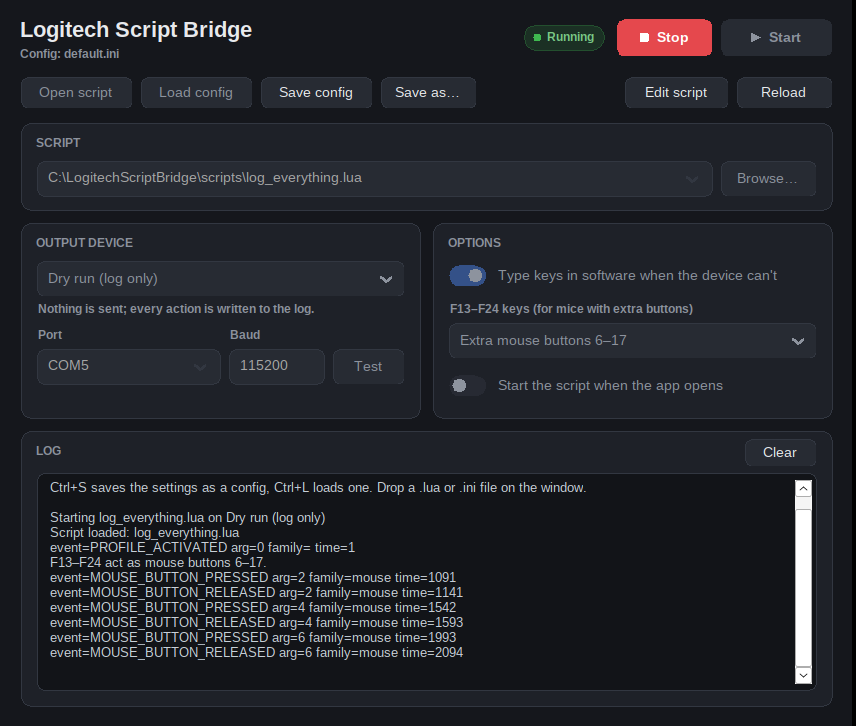
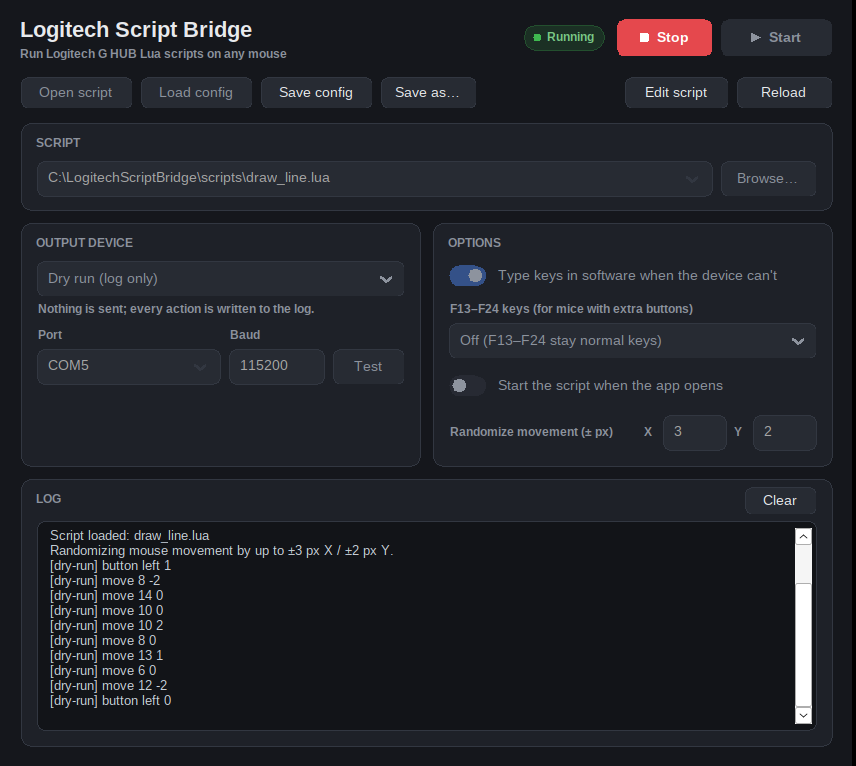
Add Randomize movement (± X / Y px) option (v1.2.0)
Offsets every script mouse movement by a random amount within the set
range, for a hand-drawn look in Paint and similar apps. The offset is
re-picked on each move and corrected against the previous one, so the
pointer stays within the range of the exact path instead of drifting.
Saved in configs as jitter_x / jitter_y; adds a Paint example script.

Claude-Session: https://claude.ai/code/session_01KuAGHycRfgR26YMsoW1HEq

diff --git a/src/gui_win.cpp b/src/gui_win.cpp
@@ -130,7 +130,7 @@ int textWidth(HDC dc, const std::wstring& s, HFONT font) {
 enum Id {
     IDC_START = 100, IDC_STOP, IDC_OPEN, IDC_LOADCFG, IDC_SAVECFG, IDC_SAVEAS, IDC_RELOAD, IDC_EDIT,
     IDC_SCRIPT, IDC_SCRIPT_MENU, IDC_BROWSE, IDC_DEVICE, IDC_PORT, IDC_PORT_MENU, IDC_BAUD, IDC_TEST,
-    IDC_KEYFALLBACK, IDC_EXTRA, IDC_AUTOSTART, IDC_CLEAR, IDC_LOG,
+    IDC_KEYFALLBACK, IDC_EXTRA, IDC_AUTOSTART, IDC_JITTER_X, IDC_JITTER_Y, IDC_CLEAR, IDC_LOG,
 };
 
 enum class Role { Primary, Danger, Secondary, Dropdown, Chevron, Toggle };
@@ -223,6 +223,8 @@ Config currentConfig() {
     c.keyFallback = app.keyFallback;
     c.extraKeys = kExtraKeys[app.extraKeys];
     c.autoStart = app.autoStart;
+    c.jitterX = std::max(0, _wtoi(getText(IDC_JITTER_X).c_str()));
+    c.jitterY = std::max(0, _wtoi(getText(IDC_JITTER_Y).c_str()));
     return c;
 }
 
@@ -236,6 +238,8 @@ void applyConfig(const Config& c) {
     SetWindowTextW(app.item(IDC_BAUD), std::to_wstring(c.baud).c_str());
     app.keyFallback = c.keyFallback;
     app.autoStart = c.autoStart;
+    SetWindowTextW(app.item(IDC_JITTER_X), std::to_wstring(c.jitterX).c_str());
+    SetWindowTextW(app.item(IDC_JITTER_Y), std::to_wstring(c.jitterY).c_str());
     app.extraKeys = 0;
     for (int i = 0; i < 3; i++)
         if (c.extraKeys == kExtraKeys[i]) app.extraKeys = i;
@@ -263,7 +267,7 @@ void refreshChrome() {
     EnableWindow(app.item(IDC_STOP), run);
     EnableWindow(app.item(IDC_RELOAD), run);
     for (int id : {IDC_SCRIPT, IDC_SCRIPT_MENU, IDC_BROWSE, IDC_OPEN, IDC_LOADCFG, IDC_DEVICE, IDC_EXTRA,
-                   IDC_KEYFALLBACK, IDC_AUTOSTART})
+                   IDC_KEYFALLBACK, IDC_AUTOSTART, IDC_JITTER_X, IDC_JITTER_Y})
         EnableWindow(app.item(id), !run);
     for (int id : {IDC_PORT, IDC_PORT_MENU, IDC_BAUD}) EnableWindow(app.item(id), !run && serial);
     EnableWindow(app.item(IDC_TEST), !run);
@@ -438,6 +442,7 @@ void startScript() {
     app.engine = std::make_unique<Engine>(*app.backend, app.input, [](const std::string& s) { app.log(s); },
                                           app.fallback.get());
     app.engine->onClearLog = [] { PostMessageW(app.wnd, WM_APP_CLEARLOG, 0, 0); };
+    app.engine->setJitter(c.jitterX, c.jitterY);
 
     app.log(std::string("\nStarting ") + fileName(c.script) + " on " + info.label + "\n");
     if (!app.engine->start(source, fileName(c.script), err)) {
@@ -454,6 +459,9 @@ void startScript() {
         errorBox(L"Input", err);
         return;
     }
+    if (c.jitterX || c.jitterY)
+        app.log("Randomizing mouse movement by up to \u00B1" + std::to_string(c.jitterX) + " px X / \u00B1" +
+                std::to_string(c.jitterY) + " px Y.\n");
     if (c.extraKeys == "mouse") app.log("F13–F24 act as mouse buttons 6–17.\n");
     if (c.extraKeys == "gkeys") app.log("F13–F24 act as G-keys G1–G12.\n");
     app.status = App::Status::Running;
@@ -814,7 +822,7 @@ void layout() {
 
     // device + options cards
     y += app.S(88) + app.S(12);
-    const int cardH = app.S(196), half = (W - 2 * m - app.S(12)) / 2;
+    const int cardH = app.S(244), half = (W - 2 * m - app.S(12)) / 2;
     const int lx = m, rx = m + half + app.S(12);
     app.cards.push_back({{lx, y, lx + half, y + cardH}, L"OUTPUT DEVICE"});
     app.cards.push_back({{rx, y, rx + half, y + cardH}, L"OPTIONS"});
@@ -838,6 +846,14 @@ void layout() {
                           L"F13–F24 keys (for mice with extra buttons)"});
     place(IDC_EXTRA, rx + pad, y + app.S(100), inner, fh);
     place(IDC_AUTOSTART, rx + pad, y + app.S(148), inner, app.S(30));
+    // randomize movement: label, then X and Y fields
+    const int jy = y + app.S(192), jw = app.S(64), jl = app.S(18);
+    const int jx = rx + half - pad - 2 * jw - 2 * jl - gap;
+    app.labels.push_back({{rx + pad + app.S(2), jy, jx - gap, jy + fh}, L"Randomize movement (\u00B1 px)"});
+    app.labels.push_back({{jx, jy, jx + jl, jy + fh}, L"X"});
+    field(IDC_JITTER_X, jx + jl, jy, jw);
+    app.labels.push_back({{jx + jl + jw + gap, jy, jx + 2 * jl + jw + gap, jy + fh}, L"Y"});
+    field(IDC_JITTER_Y, jx + 2 * jl + jw + gap, jy, jw);
 
     // log card
     y += cardH + app.S(12);
@@ -952,12 +968,14 @@ void createControls() {
     button(IDC_KEYFALLBACK, L"Type keys in software when the device can't", Role::Toggle);
     button(IDC_EXTRA, L"", Role::Dropdown);
     button(IDC_AUTOSTART, L"Start the script when the app opens", Role::Toggle);
+    make(L"EDIT", L"0", ES_NUMBER | ES_AUTOHSCROLL, IDC_JITTER_X);
+    make(L"EDIT", L"0", ES_NUMBER | ES_AUTOHSCROLL, IDC_JITTER_Y);
     button(IDC_CLEAR, L"Clear", Role::Secondary);
     HWND log = make(L"EDIT", L"", WS_VSCROLL | ES_MULTILINE | ES_READONLY | ES_AUTOVSCROLL, IDC_LOG, app.fontMono);
     SendMessageW(log, EM_SETLIMITTEXT, 0, 0);
 
     const int m = app.S(4);
-    for (int id : {IDC_SCRIPT, IDC_PORT, IDC_BAUD}) SendMessageW(app.item(id), EM_SETMARGINS, EC_LEFTMARGIN | EC_RIGHTMARGIN, MAKELPARAM(0, 0));
+    for (int id : {IDC_SCRIPT, IDC_PORT, IDC_BAUD, IDC_JITTER_X, IDC_JITTER_Y}) SendMessageW(app.item(id), EM_SETMARGINS, EC_LEFTMARGIN | EC_RIGHTMARGIN, MAKELPARAM(0, 0));
     SendMessageW(log, EM_SETMARGINS, EC_LEFTMARGIN | EC_RIGHTMARGIN, MAKELPARAM(m, m));
     SendMessageW(app.item(IDC_SCRIPT), EM_SETCUEBANNER, TRUE, reinterpret_cast<LPARAM>(L"Pick a .lua script"));
     SendMessageW(app.item(IDC_PORT), EM_SETCUEBANNER, TRUE, reinterpret_cast<LPARAM>(L"e.g. COM5"));
@@ -1014,6 +1032,8 @@ void onCommand(int id, int code) {
         case IDC_SCRIPT:
         case IDC_PORT:
         case IDC_BAUD:
+        case IDC_JITTER_X:
+        case IDC_JITTER_Y:
             if (code == EN_CHANGE) refreshChrome();
             if (code == EN_SETFOCUS || code == EN_KILLFOCUS) InvalidateRect(app.wnd, &app.fields[id], FALSE);
             break;
@@ -1036,7 +1056,7 @@ LRESULT CALLBACK wndProc(HWND hwnd, UINT msg, WPARAM wp, LPARAM lp) {
             return 0;
         case WM_GETMINMAXINFO: {
             auto* mm = reinterpret_cast<MINMAXINFO*>(lp);
-            mm->ptMinTrackSize = {app.S(780), app.S(640)};
+            mm->ptMinTrackSize = {app.S(780), app.S(690)};
             return 0;
         }
         case WM_DRAWITEM:
@@ -1139,7 +1159,7 @@ int WINAPI wWinMain(HINSTANCE inst, HINSTANCE, LPWSTR, int show) {
 
     app.wnd = CreateWindowExW(WS_EX_CONTROLPARENT, wc.lpszClassName, L"Logitech Script Bridge",
                               WS_OVERLAPPEDWINDOW | WS_CLIPCHILDREN, CW_USEDEFAULT, CW_USEDEFAULT, app.S(860),
-                              app.S(760), nullptr, nullptr, inst, nullptr);
+                              app.S(800), nullptr, nullptr, inst, nullptr);
     createControls();
     enableDarkChrome();
     loadState(arg);

diff --git a/src/engine.cpp b/src/engine.cpp
@@ -110,6 +110,7 @@ bool Engine::start(const std::string& source, const std::string& chunkName, std:
     hasDeadline_ = false;
     primaryEvents_ = false;
     warnedKeyboard_ = false;
+    offX_ = offY_ = 0;
     start_ = Clock::now();
     physical_.fill(false);
     synthetic_.fill(false);
@@ -291,6 +292,29 @@ void Engine::sleepMs(double ms) {
     qcv_.wait_until(lock, end, [&] { return abort_.load(); });
 }
 
+void Engine::setJitter(int x, int y, unsigned seed) {
+    jitterX_ = std::max(0, x);
+    jitterY_ = std::max(0, y);
+    rng_.seed(seed);
+}
+
+int Engine::pickJitter(int range) {
+    return range ? std::uniform_int_distribution<int>(-range, range)(rng_) : 0;
+}
+
+// Each move picks a fresh offset and corrects for the previous one, so the
+// error stays within the range instead of adding up over a long stroke.
+void Engine::moveWithJitter(int dx, int dy) {
+    if ((jitterX_ || jitterY_) && (dx || dy)) {
+        const int nx = pickJitter(jitterX_), ny = pickJitter(jitterY_);
+        dx += nx - offX_;
+        dy += ny - offY_;
+        offX_ = nx;
+        offY_ = ny;
+    }
+    out_.move(dx, dy);
+}
+
 Backend* Engine::keyOutput() { return out_.supportsKeyboard() ? &out_ : keyFallback_; }
 
 void Engine::releaseAll() {
@@ -424,7 +448,7 @@ int Engine::l_mpressed(lua_State* L) {
 }
 
 int Engine::l_moveRel(lua_State* L) {
-    self(L)->out_.move(toInt(L, 1), toInt(L, 2));
+    self(L)->moveWithJitter(toInt(L, 1), toInt(L, 2));
     return 0;
 }
 
@@ -438,8 +462,11 @@ int Engine::l_moveTo(lua_State* L) {
     Engine* e = self(L);
     int left, top, w, h;
     e->input_.screenRect(lua_toboolean(L, 3), left, top, w, h);
-    const int tx = left + static_cast<int>(std::lround(luaL_checknumber(L, 1) * (w - 1) / 65535.0));
-    const int ty = top + static_cast<int>(std::lround(luaL_checknumber(L, 2) * (h - 1) / 65535.0));
+    // with randomizing on, aim for a spot near the target; later relative moves wobble around it
+    e->offX_ = e->pickJitter(e->jitterX_);
+    e->offY_ = e->pickJitter(e->jitterY_);
+    const int tx = left + static_cast<int>(std::lround(luaL_checknumber(L, 1) * (w - 1) / 65535.0)) + e->offX_;
+    const int ty = top + static_cast<int>(std::lround(luaL_checknumber(L, 2) * (h - 1) / 65535.0)) + e->offY_;
     for (int i = 0; i < 3; i++) {
         int cx, cy;
         e->input_.cursorPos(cx, cy);

diff --git a/src/config.cpp b/src/config.cpp
@@ -1,5 +1,6 @@
 #include "config.h"
 
+#include <algorithm>
 #include <cctype>
 #include <vector>
 #include <cstdlib>
@@ -41,7 +42,8 @@ bool samePathChar(char a, char b) {
 
 bool Config::operator==(const Config& o) const {
     return script == o.script && device == o.device && port == o.port && baud == o.baud &&
-           keyFallback == o.keyFallback && extraKeys == o.extraKeys && autoStart == o.autoStart;
+           keyFallback == o.keyFallback && extraKeys == o.extraKeys && autoStart == o.autoStart &&
+           jitterX == o.jitterX && jitterY == o.jitterY;
 }
 
 FILE* openUtf8(const std::string& path, const char* mode) {
@@ -162,9 +164,11 @@ bool saveConfig(const std::string& path, const Config& c, std::string& error, co
                  "baud=%d\r\n"
                  "key_fallback=%d\r\n"
                  "extra_keys=%s\r\n"
-                 "auto_start=%d\r\n",
+                 "auto_start=%d\r\n"
+                 "jitter_x=%d\r\n"
+                 "jitter_y=%d\r\n",
                  script.c_str(), c.device.c_str(), c.port.c_str(), c.baud, c.keyFallback ? 1 : 0,
-                 c.extraKeys.c_str(), c.autoStart ? 1 : 0);
+                 c.extraKeys.c_str(), c.autoStart ? 1 : 0, c.jitterX, c.jitterY);
     if (extras)
         for (const auto& kv : *extras) std::fprintf(f, "%s=%s\r\n", kv.first.c_str(), kv.second.c_str());
     const bool ok = std::fclose(f) == 0;
@@ -203,6 +207,8 @@ bool loadConfig(const std::string& path, Config& c, std::string& error, ConfigEx
         else if (key == "key_fallback") out.keyFallback = parseBool(value);
         else if (key == "extra_keys") out.extraKeys = value;
         else if (key == "auto_start") out.autoStart = parseBool(value);
+        else if (key == "jitter_x") out.jitterX = std::max(0, std::atoi(value.c_str()));
+        else if (key == "jitter_y") out.jitterY = std::max(0, std::atoi(value.c_str()));
         else if (extras) (*extras)[key] = value;
     }
     c = out;

diff --git a/tests/engine_tests.cpp b/tests/engine_tests.cpp
@@ -285,4 +285,41 @@ TEST(g_keys) {
     CHECK(h.logHas("G_PRESSED 3 kb\nG_RELEASED 3 kb"));
 }
 
+TEST(jitter_wobbles_around_the_path) {
+    DryRunBackend backend;
+    NullInput input;
+    Engine engine(backend, input, [](const std::string&) {});
+    engine.setJitter(3, 2, 1234);
+    std::string err;
+    CHECK(engine.start(R"(
+    function OnEvent(e)
+        if e == "PROFILE_ACTIVATED" then
+            for i = 1, 500 do MoveMouseRelative(1, 0) end
+        end
+    end)", "jitter.lua", err));
+    Harness::settle(200);
+    engine.stop();
+    int x = 0, y = 0, steps = 0;
+    bool varied = false, inRange = true;
+    for (const auto& line : backend.sent()) {
+        int dx = 0, dy = 0;
+        if (std::sscanf(line.c_str(), "move %d %d", &dx, &dy) != 2) continue;
+        x += dx;
+        y += dy;
+        steps++;
+        if (dx != 1 || dy != 0) varied = true;
+        // never further than the range from where the script thinks the pointer is
+        if (x < steps - 3 || x > steps + 3 || y < -2 || y > 2) inRange = false;
+    }
+    CHECK(steps == 500);  // the dry-run device records (0,0) moves too
+    CHECK(varied);
+    CHECK(inRange);
+}
+
+TEST(jitter_off_is_exact) {
+    Harness h(R"(function OnEvent(e) if e == "PROFILE_ACTIVATED" then MoveMouseRelative(5, -4) MoveMouseRelative(-2, 7) end end)");
+    Harness::settle();
+    CHECK((h.backend.sent() == Sent{"move 5 -4", "move -2 7"}));
+}
+
 }  // namespace

diff --git a/src/engine.h b/src/engine.h
@@ -12,6 +12,7 @@
 #include <deque>
 #include <functional>
 #include <mutex>
+#include <random>
 #include <set>
 #include <string>
 #include <thread>
@@ -51,6 +52,11 @@ public:
 
     static constexpr int kMaxButton = 32;
 
+    // Randomize every mouse movement the script makes by up to +-x / +-y counts
+    // (0 = off), e.g. for a hand-drawn look. The pointer wobbles around the path
+    // the script asked for instead of drifting away from it. Call before start().
+    void setJitter(int x, int y, unsigned seed = std::random_device{}());
+
     std::function<void()> onClearLog;
 
 private:
@@ -69,6 +75,8 @@ private:
     bool shouldAbort();
     void sleepMs(double ms);
     Backend* keyOutput();
+    void moveWithJitter(int dx, int dy);
+    int pickJitter(int range);
 
     // Lua API (C functions)
     static Engine* self(lua_State* L);
@@ -102,6 +110,10 @@ private:
     Clock::time_point deadline_;
     Clock::time_point start_;
     bool warnedKeyboard_ = false;
+
+    int jitterX_ = 0, jitterY_ = 0;  // configured range
+    int offX_ = 0, offY_ = 0;        // current random offset from the exact path (worker thread only)
+    std::mt19937 rng_;
 
     std::mutex qmu_;
     std::condition_variable qcv_;

diff --git a/tests/config_tests.cpp b/tests/config_tests.cpp
@@ -50,6 +50,8 @@ TEST(config_roundtrip_with_relative_script) {
     c.keyFallback = false;
     c.extraKeys = "gkeys";
     c.autoStart = true;
+    c.jitterX = 3;
+    c.jitterY = 2;
     std::string err;
     const std::string path = joinPath(dir, "game.ini");
     CHECK(saveConfig(path, c, err));
@@ -108,6 +110,7 @@ TEST(config_extras_defaults_and_bad_input) {
     CHECK(c.baud == 115200);
     CHECK(!c.keyFallback);
     CHECK(c.extraKeys == "off");
+    CHECK(c.jitterX == 0 && c.jitterY == 0);
     CHECK(extras["config_file"] == "x.ini");
 
     Config missing;

diff --git a/src/config.h b/src/config.h
@@ -18,6 +18,7 @@ struct Config {
     bool keyFallback = true;      // type keys in software when the device can't
     std::string extraKeys = "off";  // F13-F24: "off", "mouse" (buttons 6-17) or "gkeys" (G1-G12)
     bool autoStart = false;       // start the script when the app opens
+    int jitterX = 0, jitterY = 0; // randomize script mouse movement by up to +- this many pixels
 
     bool operator==(const Config& o) const;
     bool operator!=(const Config& o) const { return !(*this == o); }

diff --git a/README.md b/README.md
@@ -83,6 +83,14 @@ The title bar shows `*` when the settings differ from the loaded config.
 
 Turn on **Start the script when the app opens** and the app is ready to go as soon as you launch it.
 
+### Randomize movement
+
+**Randomize movement (± px)** adds a small random offset of up to X pixels sideways and Y pixels
+up/down to every mouse movement the script makes. That gives drawing scripts in Paint and similar
+apps a hand-drawn look. The pointer wobbles around the path the script asked for and never drifts
+further than X / Y away from it, even over long strokes. Set both to 0 (the default) for exact
+movement. Try [`examples/paint_draw_line.lua`](examples/paint_draw_line.lua) with X 3, Y 2.
+
 ### Mice with more than five buttons
 
 G HUB reports buttons 6 and up for Logitech mice with extra buttons. Windows only
